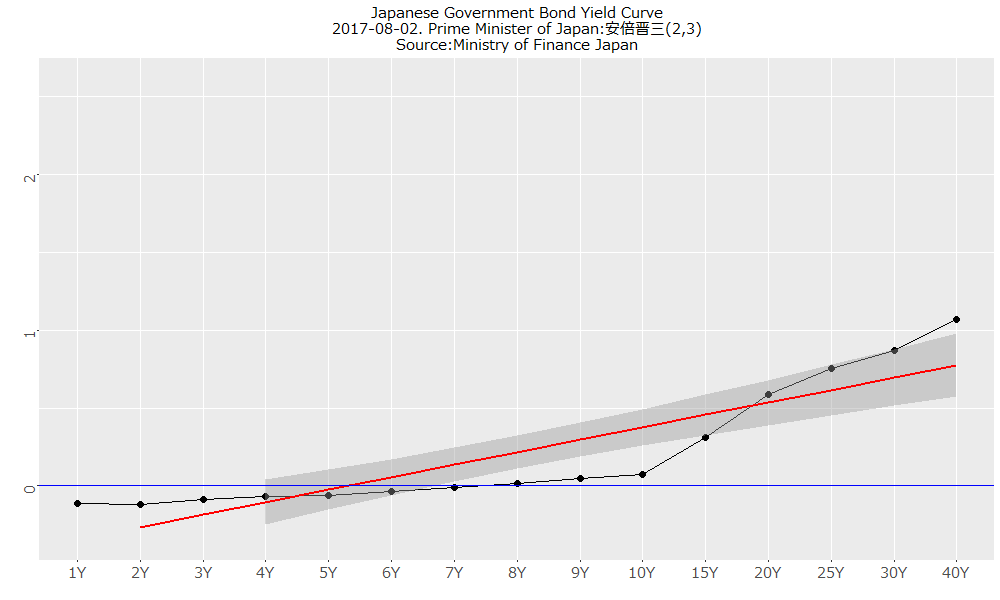
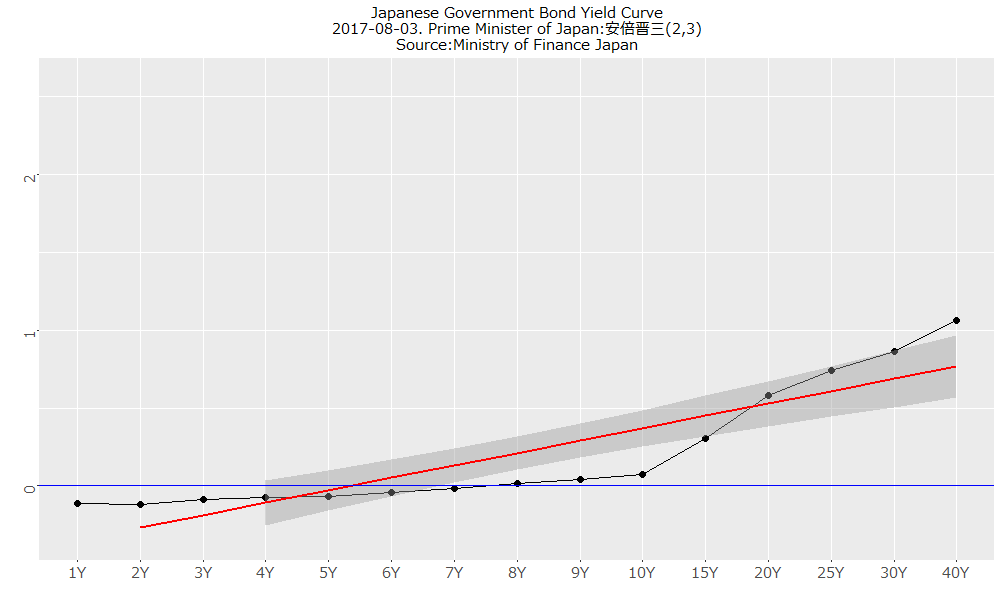
定期更新
定期更新

diff --git a/charts/indicator/JGByieldCurve/JGByieldCurve.html b/charts/indicator/JGByieldCurve/JGByieldCurve.html
@@ -184,7 +184,7 @@
   </tr>
   <tr>
    <td style="text-align:left;"> <a href="http://indicator.am-consulting.co.jp/JGByieldCurve/JGBcurve-117.png"><img border="2" src="http://indicator.am-consulting.co.jp/JGByieldCurve/JGBcurve-117.png" width="30%" /><b>2017-07-31</b></a> </td>
-   <td style="text-align:left;"> <a href="http://indicator.am-consulting.co.jp/JGByieldCurve/JGBcurve-118.png"><img border="2" src="http://indicator.am-consulting.co.jp/JGByieldCurve/JGBcurve-118.png" width="30%" /><b>2017-08-02</b></a> </td>
+   <td style="text-align:left;"> <a href="http://indicator.am-consulting.co.jp/JGByieldCurve/JGBcurve-118.png"><img border="2" src="http://indicator.am-consulting.co.jp/JGByieldCurve/JGBcurve-118.png" width="30%" /><b>2017-08-03</b></a> </td>
    <td style="text-align:left;">  </td>
    <td style="text-align:left;">  </td>
   </tr>
